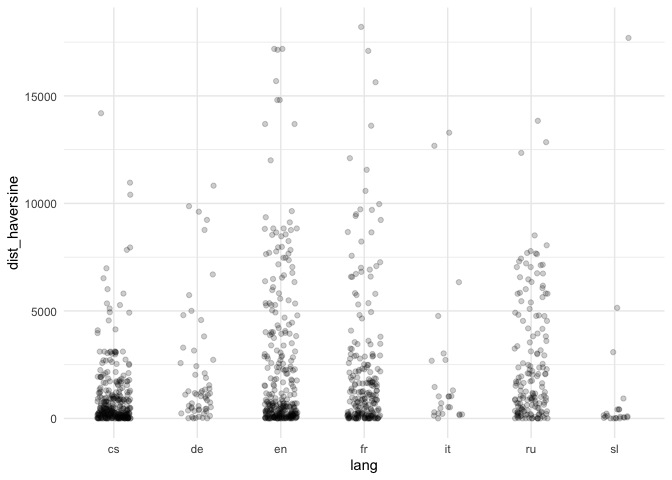
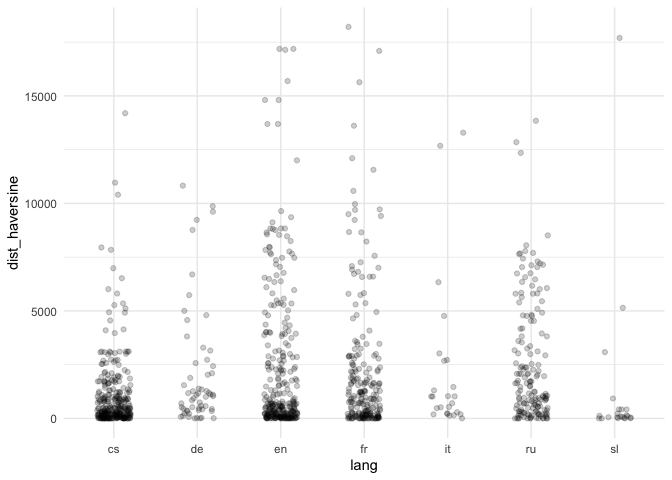
minor 01 scr upd

diff --git a/scr/01_geodata_directions.md b/scr/01_geodata_directions.md
@@ -46,6 +46,15 @@ formulas <- formulas %>%
 
 N formulas per language
 
+      lang   n
+    1   cs 308
+    2   en 294
+    3   fr 217
+    4   ru 162
+    5   de  58
+    6   it  25
+    7   sl  22
+
 ## Most freq loc vs from_to loc
 
 Look if most most freq locations also appear in from_to formula
@@ -629,16 +638,16 @@ unique (sampled example)
     # A tibble: 10 × 7
        lang  type_pair    text  from_placename to_placename dist_type dist_haversine
        <chr> <chr>        <chr> <chr>          <chr>        <chr>              <dbl>
-     1 fr    ancient cit… De T… Thebes         Rome         long              2577. 
-     2 en    ancient cit… from… Nicaea         River Trent  long              2707. 
-     3 ru    ancient cit… От В… Babylon        Bethlehem    short              873. 
-     4 ru    river --> a… От Н… Nile           Nineveh      long              1299. 
-     5 en    region --> … From… Arcadia        Calydon      short              104. 
-     6 en    ancient cit… From… Dan            Beersheba    short              236. 
-     7 fr    strait (wat… de l… Dardanelles    Cumae        long              1046. 
-     8 en    ancient cit… From… Mycenae        Corinth      short               27.6
-     9 fr    ancient cit… de B… Babylon        Rome         long              2996. 
-    10 cs    island --> … od L… Lesbos         Palmyra      long              1186. 
+     1 fr    ancient cit… de l… Thebes         Nineveh      long             1552.  
+     2 cs    ancient cit… z Tr… Troy           Italy        long             1183.  
+     3 de    city --> an… von … Rome           Ostia        short              22.0 
+     4 ru    default -->… От К… Kyakhulay      Athens       long             2079.  
+     5 en    ancient cit… from… Babylon        Egypt        long             1611.  
+     6 en    ancient cit… From… Babylon        Rome         long             2996.  
+     7 en    ancient cit… from… Dan            Beersheba    short             236.  
+     8 en    ancient cit… from… Nicaea         River Trent  long             2707.  
+     9 en    mountain --… From… Mount Carmel   Ptolemais    long             1318.  
+    10 cs    city --> an… z Be… Bethlehem      Calvary      short               8.55
 
 ### city parts
 
@@ -921,6 +930,95 @@ General frequencies (highly dependent on N formulas from a language)
     18     Tagus River 13        18
     19           Egypt 12        19
     20            Neva 12        20
+
+Types: natural vs political
+
+``` r
+x <- formulas %>% 
+  select(from_placename, from_type, lang) %>% 
+  rename(placename = from_placename,
+         type = from_type)
+
+# look into types
+t <- formulas %>% 
+  select(to_placename, to_type, lang) %>% 
+  rename(placename = to_placename,
+         type = to_type) %>% 
+  rbind(x) %>% 
+  pull(type) %>% unique
+
+# create a table for larger groupings:
+# whether the entity is natural or political
+# if it is water or not
+grouping <- tibble(type = t, 
+       group = c("p", "n", "n", "p", "n", "p", 
+                 "p", "p", "p", "n", "n", "p", 
+                 "p", "p", "n", "n", "p", "n",
+                 "n", "n", "n", "p"),
+       water = c(0, 1, 1, 0, 0, 0, 
+                 0, 0, 0, 0, 1, 0, 
+                 0, 0, 1, 0, 0, 0, 
+                 1, 0, 1, 0))
+
+types_groups <- formulas %>% 
+  select(to_placename, to_type, lang) %>% 
+  rename(placename = to_placename,
+         type = to_type) %>% 
+  rbind(x) %>% 
+  left_join(grouping, by = "type")
+
+totals <- formulas %>% 
+  select(to_placename, to_type, lang) %>% 
+  rename(placename = to_placename,
+         type = to_type) %>% 
+  rbind(x) %>% 
+  count(lang) %>% 
+  rename(total = n)
+
+types_groups %>% 
+  count(lang, group) %>% 
+  left_join(totals, by = "lang") %>% 
+  mutate(perc = round((n/total)*100, 1)) %>% 
+  select(lang, group, perc) %>% 
+  mutate(group = ifelse(group == "n", "Natural", "Political")) %>% 
+  pivot_wider(names_from = group, values_from = perc)
+```
+
+    # A tibble: 7 × 3
+      lang  Natural Political
+      <chr>   <dbl>     <dbl>
+    1 cs       45.5      54.5
+    2 de       27.6      72.4
+    3 en       25.2      74.8
+    4 fr       28.3      71.7
+    5 it       50        50  
+    6 ru       37        63  
+    7 sl       31.8      68.2
+
+``` r
+types_groups %>% 
+  count(lang, water) %>% 
+  left_join(totals, by = "lang") %>% 
+  mutate(perc = round((n/total)*100, 1)) %>% 
+  select(lang, water, perc) %>% 
+  mutate(water = ifelse(water == 1, "Water", "Not water")) %>% 
+  pivot_wider(names_from = water, values_from = perc)
+```
+
+    # A tibble: 7 × 3
+      lang  `Not water` Water
+      <chr>       <dbl> <dbl>
+    1 cs           79.4  20.6
+    2 de           75    25  
+    3 en           82.5  17.5
+    4 fr           79.5  20.5
+    5 it           70    30  
+    6 ru           72.2  27.8
+    7 sl           79.5  20.5
+
+``` r
+rm(totals, types_groups, x)
+```
 
 Placenames mentioned in all corpora + frequency
 
